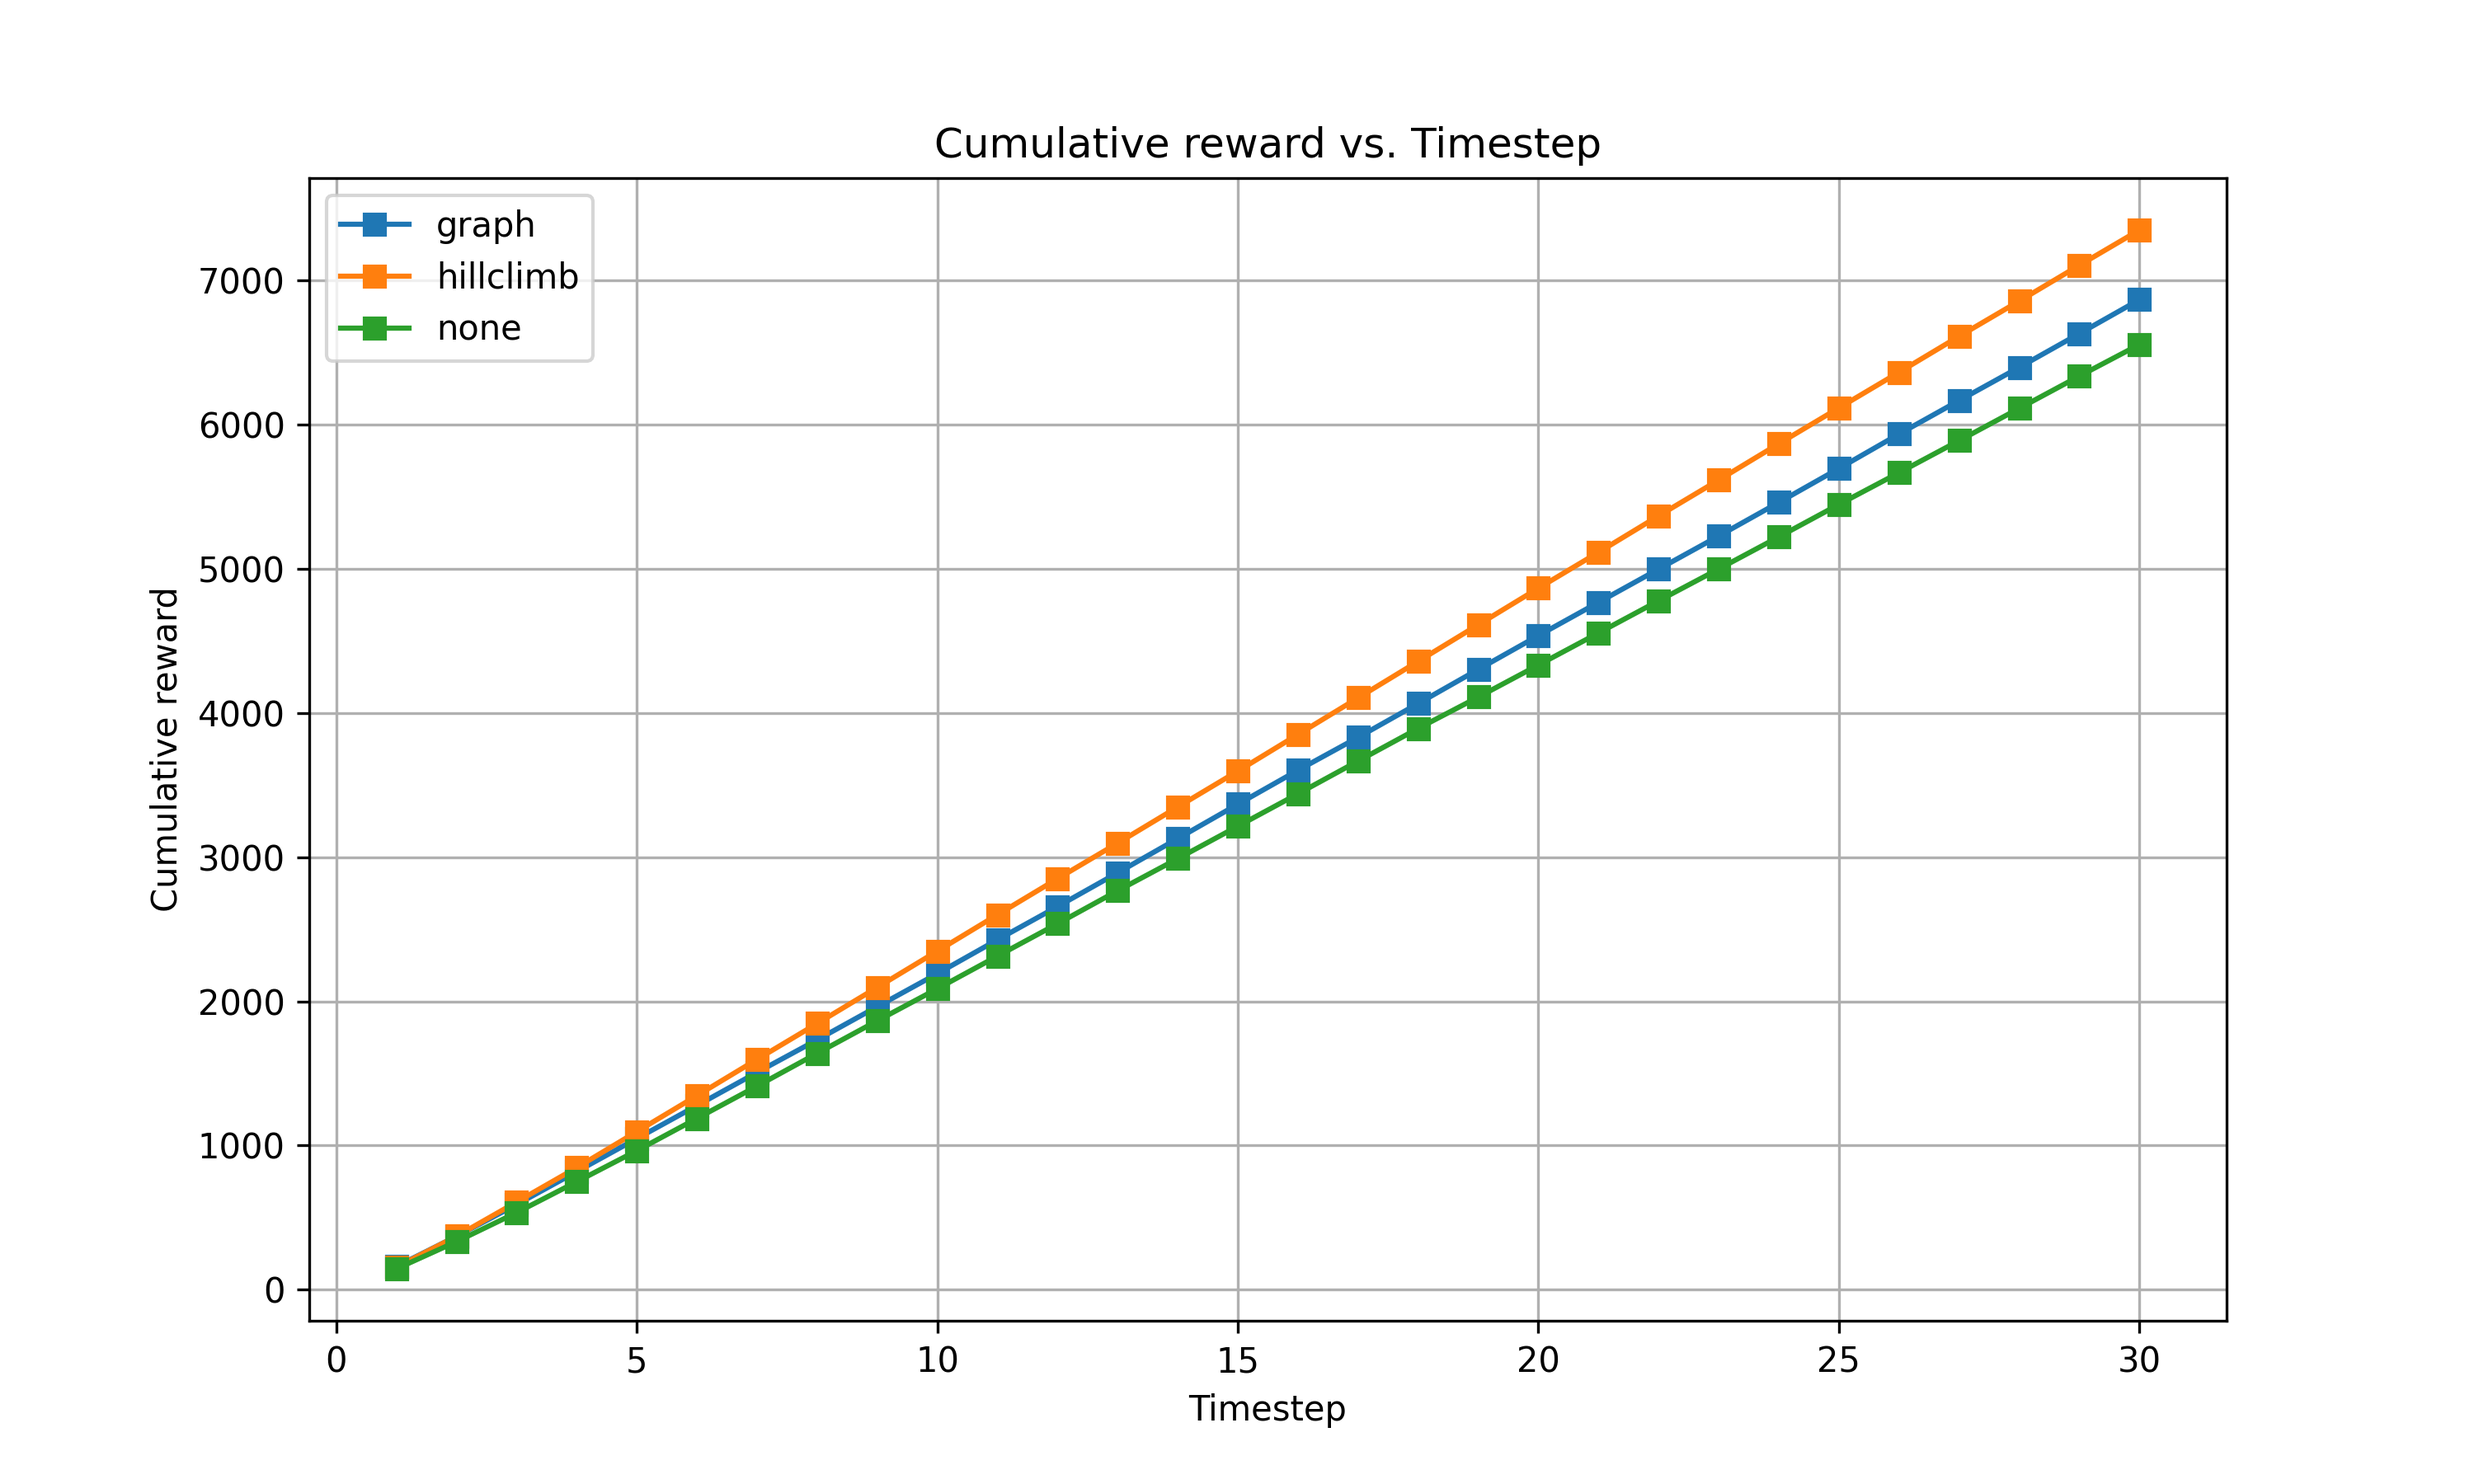
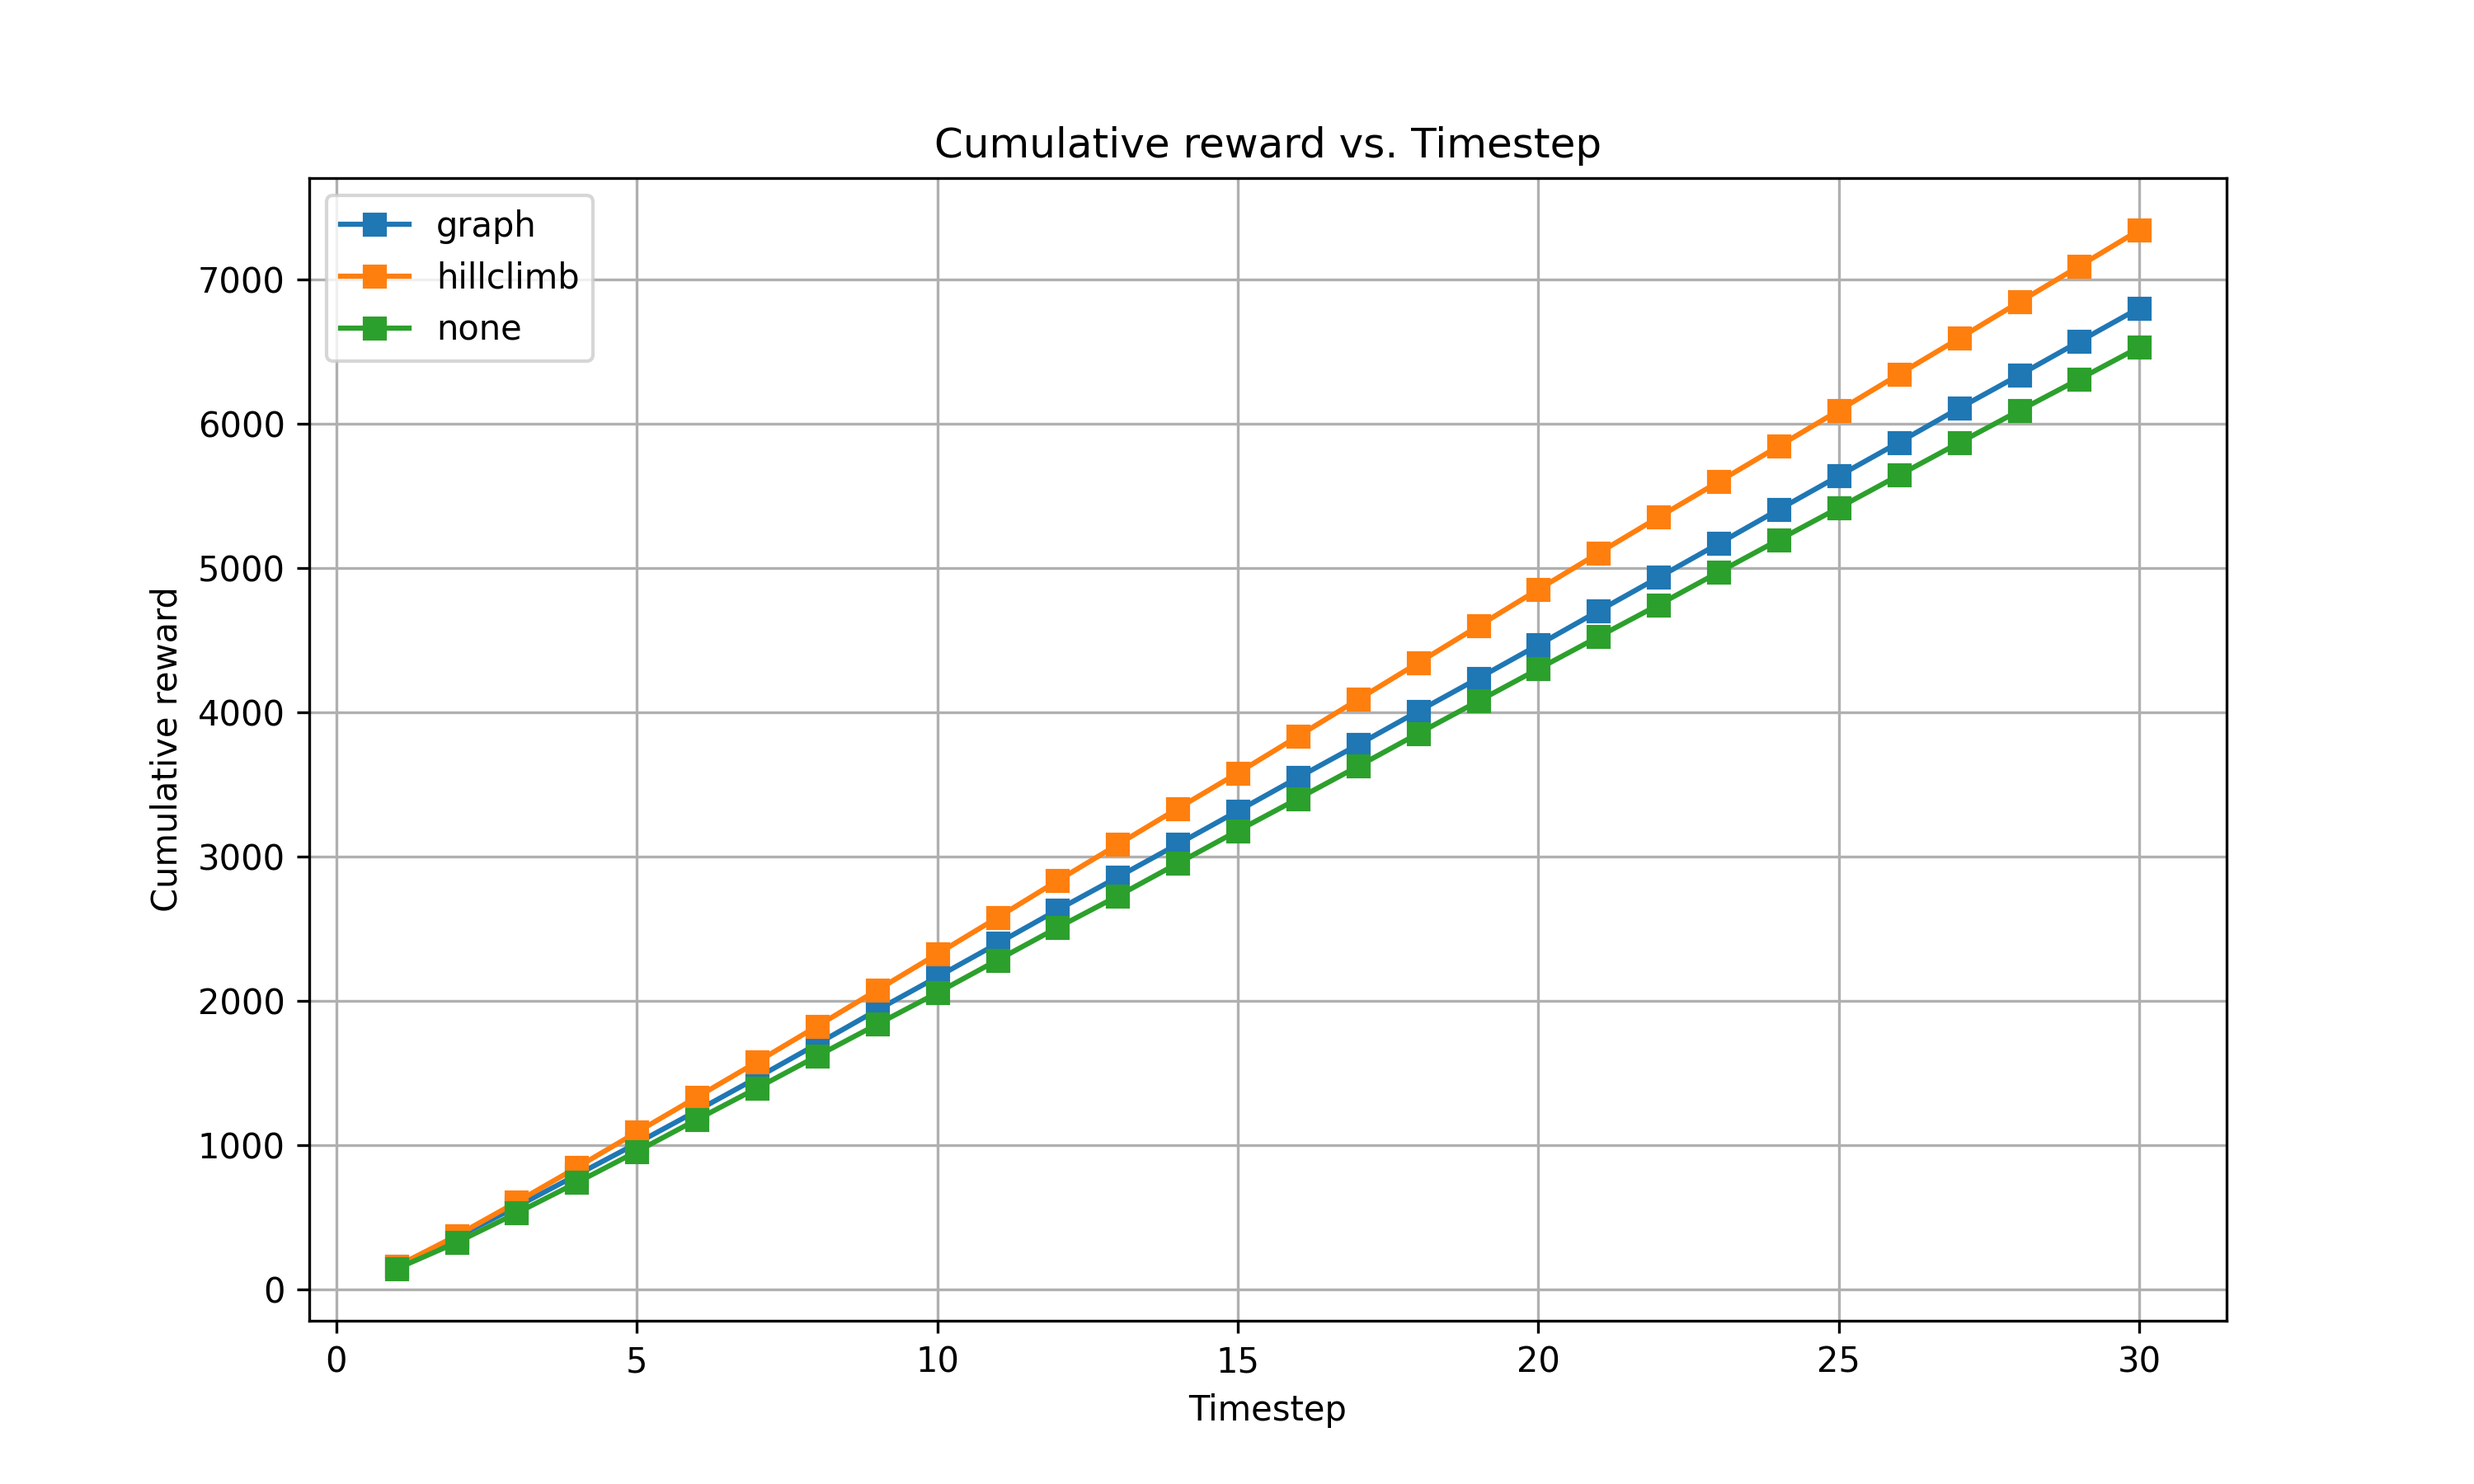
meow

Changed region(s): [[0.279, 0.1867, 0.868, 0.7467], [0.248, 0.7467, 0.279, 0.7778], [0.217, 0.7778, 0.248, 0.8089]]

diff --git a/algorithms/NEW_GraphQ.py b/algorithms/NEW_GraphQ.py
@@ -8,7 +8,7 @@ import random
 from algorithms.graph_env import GraphEnv, convert_nx_to_pyg
 
 class GraphQ:
-    def __init__(self, input_dim, hidden_dim, output_dim, gamma=0.8, lr=0.01, epsilon=1.0, epsilon_decay=0.995, epsilon_min=0.01):
+    def __init__(self, input_dim, hidden_dim, output_dim, gamma=0.8, lr=0.01, epsilon=1.0, epsilon_decay=0.995, epsilon_min=0.2):
         """
         Initialize the GraphQ model.
 

diff --git a/algorithms/graph_env.py b/algorithms/graph_env.py
@@ -85,7 +85,7 @@ class GraphEnv(gym.Env):
             horizon=1, num_samples=1
         )
         reward *= self.reward_mult
-        self.reward_mult -= 0.05
+        self.reward_mult -= 0.02
         self.latest_step_reward = reward
 
         # Some updates to your graph state

diff --git a/comparisons.py b/comparisons.py
@@ -109,7 +109,7 @@ class Comparisons:
         hidden_dim = 16
         output_dim = 1
         model = GraphQ(input_dim, hidden_dim, output_dim)
-        model.train(env, num_episodes=10)
+        model.train(env, num_episodes=50)
         self.models["graph"] = model
 
 
